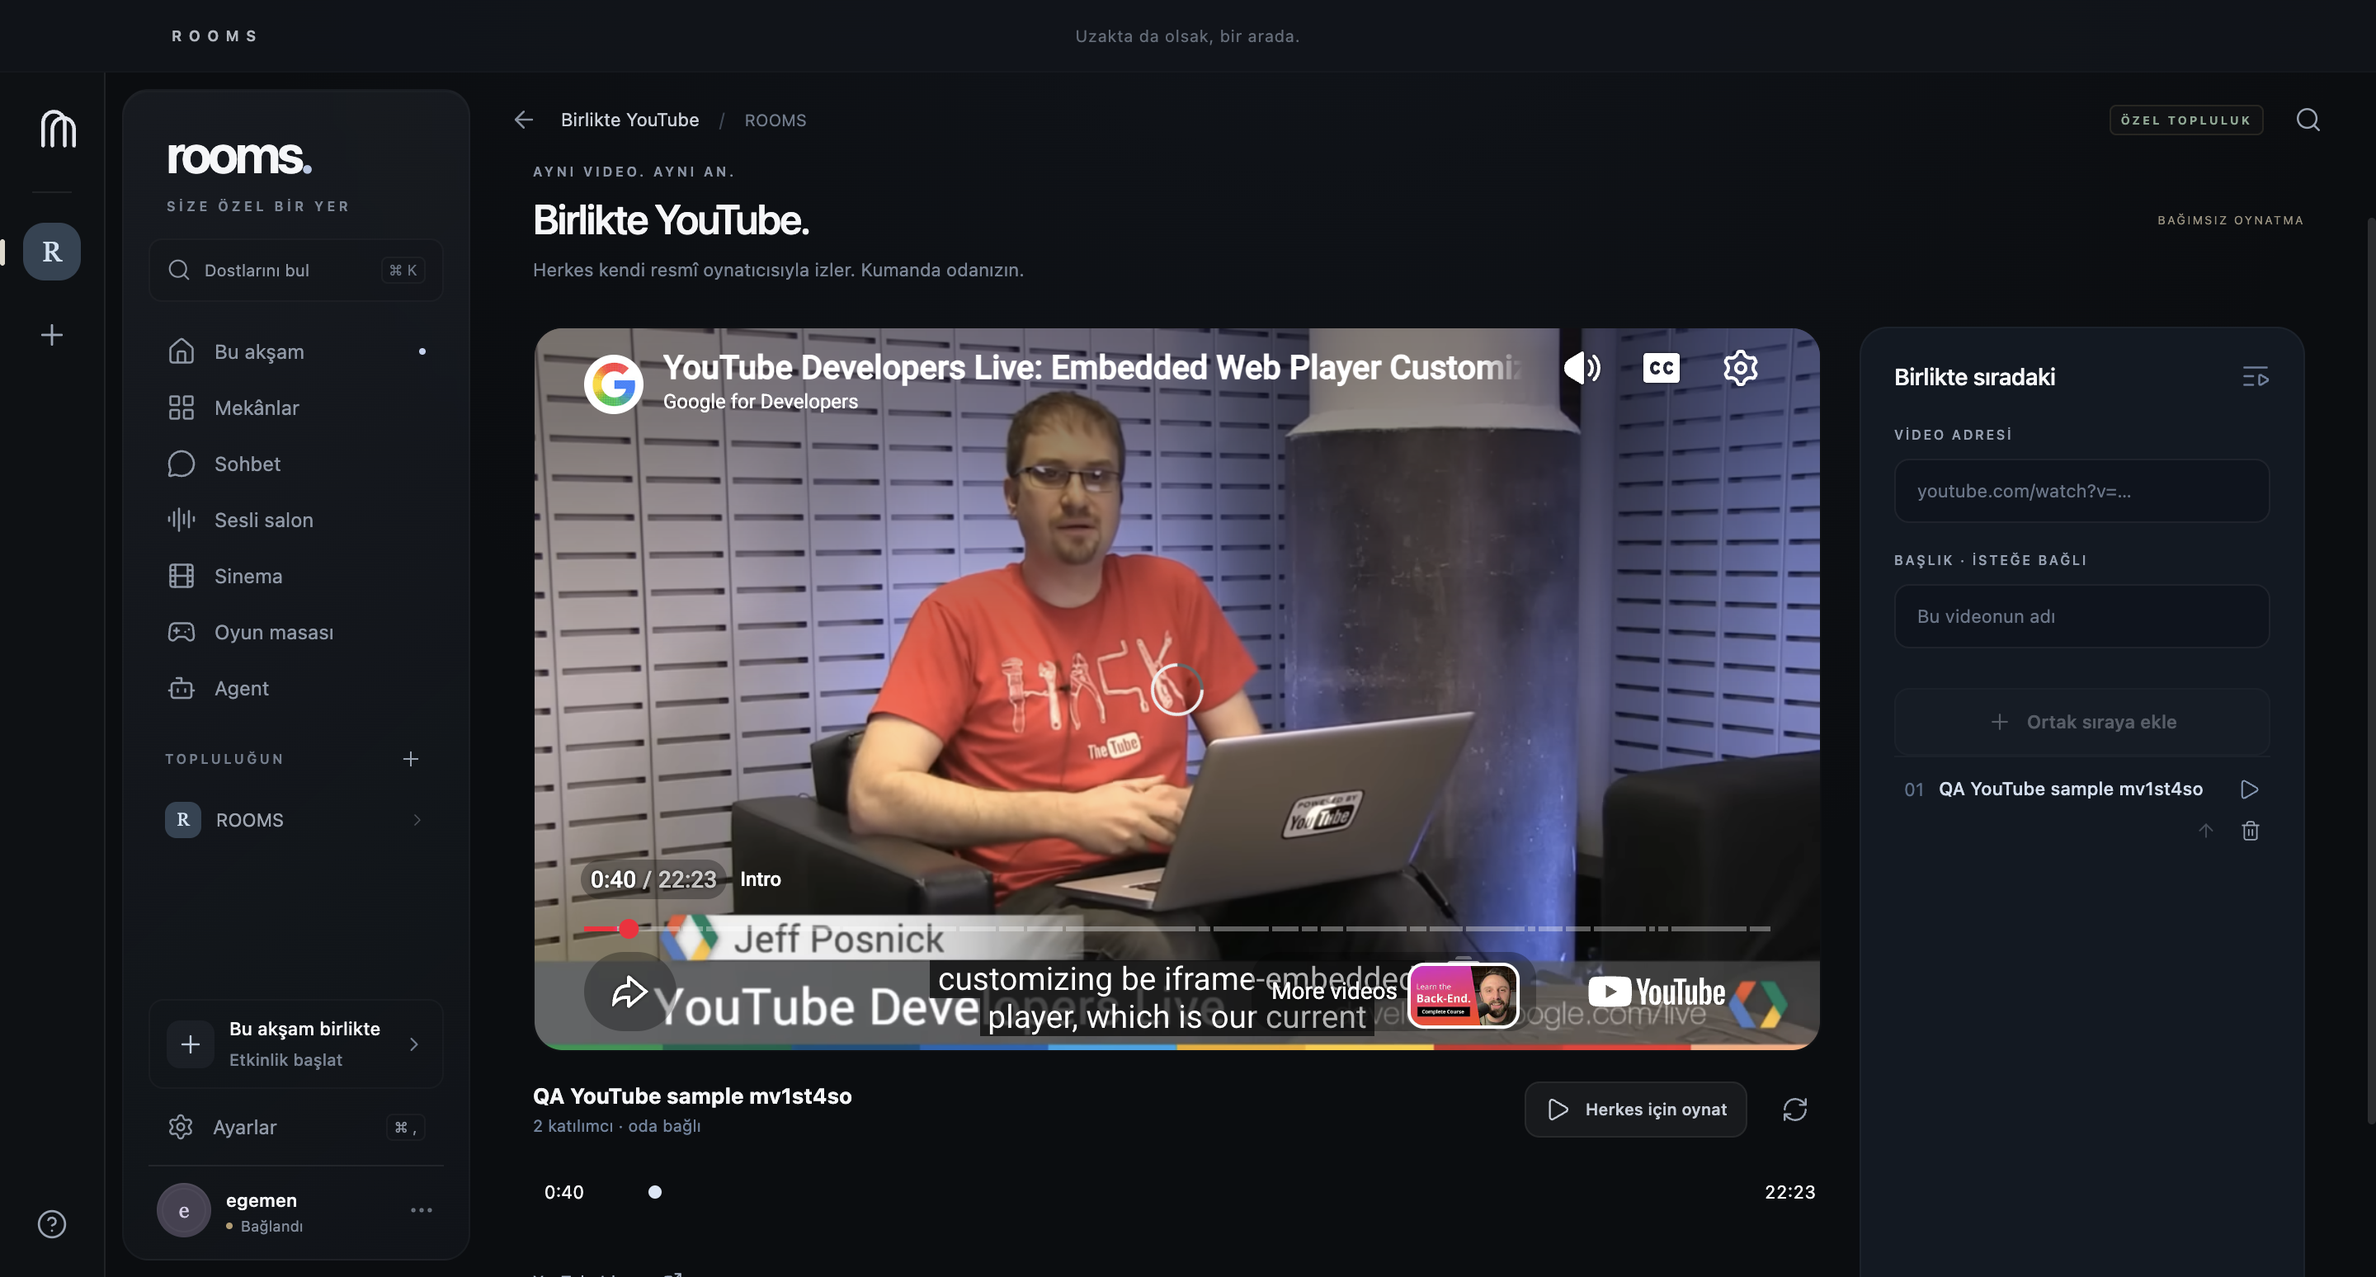
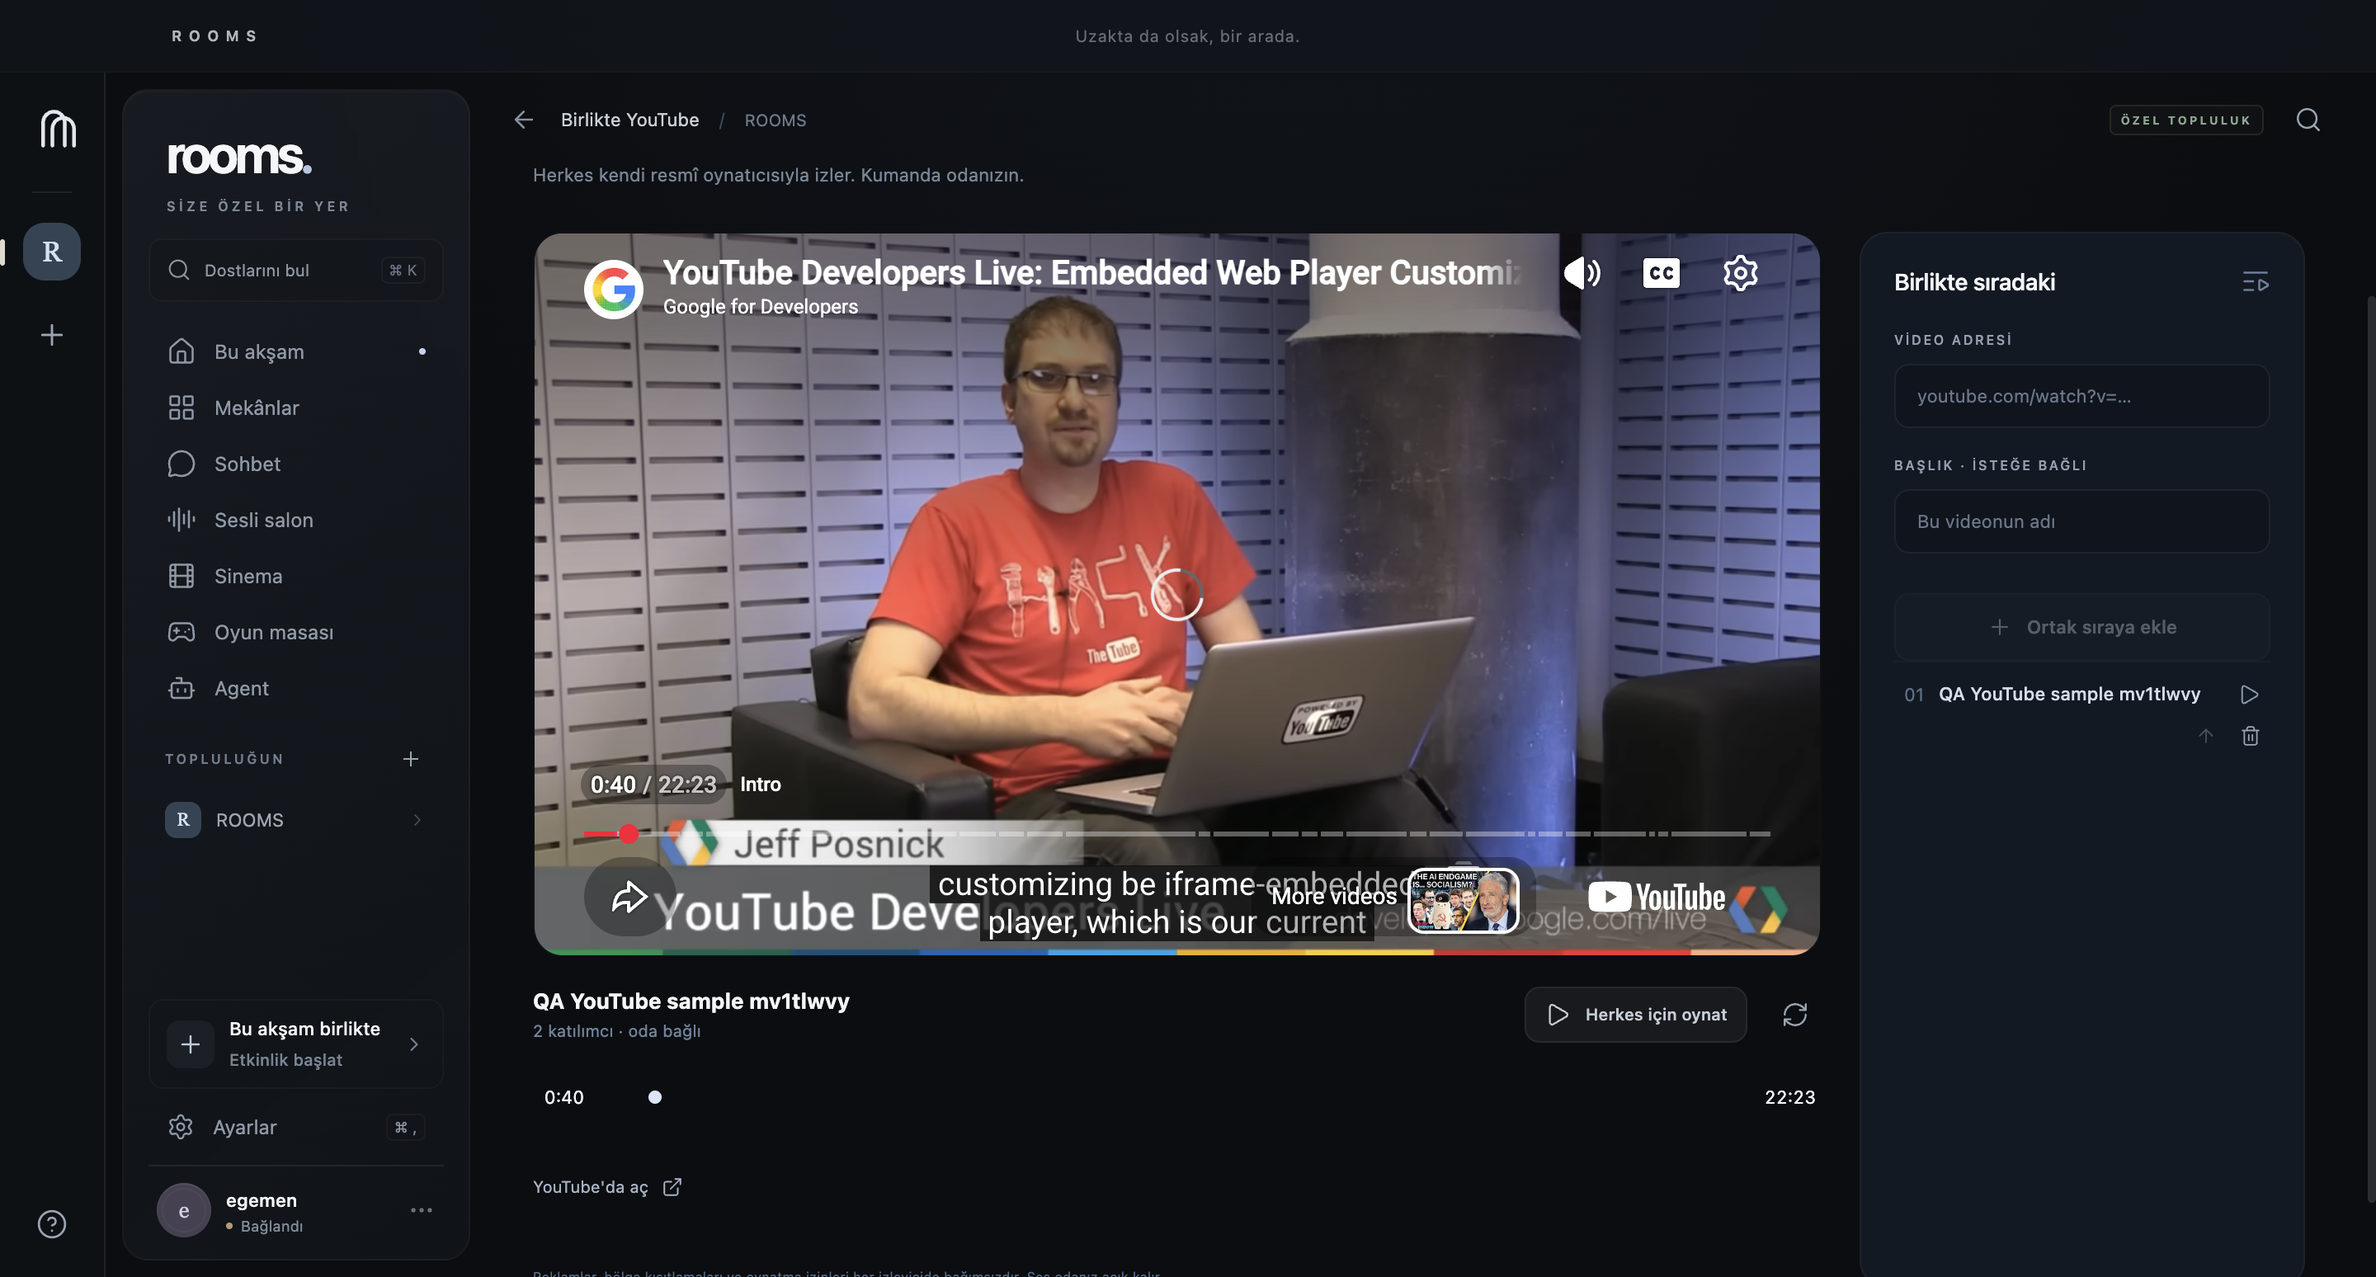
release: prepare verified Apple Silicon preview 0.1.4

diff --git a/docs/OVERNIGHT_DEPLOYMENT_PLAN.md b/docs/OVERNIGHT_DEPLOYMENT_PLAN.md
@@ -10,7 +10,7 @@ Finish the actual product, not a demonstration or a container installation. A fr
 
 - Dedicated core: 62.238.119.134, CX23 x86, 4 GB RAM, 40 GB disk, Helsinki, Ubuntu 26.04. The existing Hoppers machine is outside this deployment.
 - Existing owner SSH key works with the pinned host-key file `.local/ssh/known_hosts`. No password is stored in Git.
-- Docker 29.1.3, Compose 2.40.3, 1 GB persistent swap, bounded logs, private datastore ports, persistent volumes and firewall are configured. The deployment user exists but its SSH/privilege handoff remains unfinished.
+- Docker 29.1.3, Compose 2.40.3, 1 GB persistent swap, bounded logs, private datastore ports, persistent volumes and firewall are configured. Scoped maintenance SSH status/restart and general-root/Docker/other-project/configuration denials passed. Owner access remains intact.
 - Public origin: https://62.238.119.134, as requested. Caddy serves a publicly trusted short-lived IP certificate. Certificate renewal timer is installed; Certbot renewal simulation passed. Direct production Caddy reload also passed.
 - Unmodified upstream Stoat v0.15.5, access broker, PostgreSQL-backed Activities and independent LiveKit v1.9.12 are running. Actual image digests are pinned on the server. MongoDB 7.0.43 was selected after the upstream default MongoDB 8 refused this host kernel; no existing data was downgraded.
 - Private community, owner, isolated QA guest and outsider exist. Six expiring one-use signup invitations are saved privately. Do not publish account credentials or invitation codes.
@@ -18,9 +18,9 @@ Finish the actual product, not a demonstration or a container installation. A fr
 - Public production acceptance: 10/10 checks, including invite registration, public raw-registration denial, DM/friends, attachment delivery, authorized queue/poll/whiteboard/game state, deduplication, unsigned webhook denial and immediate membership revocation (`infra/production/ACCEPTANCE_RESULTS.json`).
 - Two Electron clients received synthetic audio/video through the public SFU using actual Stoat-authorized grants; mute, screen unpublish and signaling reconnect passed (`infra/production/MEDIA_RESULTS.json`). This does not certify physical microphone/camera/native screen-picker behavior.
 - Activity state survived a real writer-process stop/start (`infra/production/PERSISTENCE_RESULTS.json`). This does not certify full-machine recovery.
-- 96 tests across 21 files, typecheck, desktop build and service build passed after the production authorization adapter change.
-- An encrypted core backup was created, copied to the Mac and decrypted privately. Database dumps were copied to an isolated restore staging directory. Isolated offline Mongo/PostgreSQL database restores passed without modifying production. Daily backup timer is installed (04:30 UTC). Upload/certificate restore is not yet accepted.
-- Apple Silicon v0.1.1 DMG/ZIP was built and actual packaged launch/local playback passed; signing remains unavailable. Native production login, invitation signup, send/edit/delete, session restart/logout and screenshots now pass. Shared YouTube synchronization, full games acceptance, restrictive-network TURN/TLS, personal providers and separate Agent deployment are not complete.
+- 100 tests across 22 files, typecheck, desktop build and service build passed after the production authorization adapter change.
+- An encrypted core backup was created, copied to the Mac and decrypted privately. Database dumps were copied to an isolated restore staging directory. Isolated offline Mongo/PostgreSQL database restores passed without modifying production. Daily backup timer is installed (04:30 UTC). Actual isolated object restore with authenticated AES-GCM decode and TLS keypair matching passed; owned plaintext staging was removed.
+- Apple Silicon v0.1.3 DMG/ZIP was built and actual packaged launch/local playback passed; signing remains unavailable. Native production login, invitation signup, send/edit/delete, session restart/logout and screenshots now pass. Packaged shared YouTube synchronization and seven public game hands passed. Every native game control, restrictive-network TURN/TLS, personal providers and separate Agent deployment remain incomplete.
 
 ## Ordered execution checklist
 
@@ -38,18 +38,18 @@ The latest encrypted backup also passed isolated object read with authenticated 
 
 - [x] Run two actual Electron clients against the real origin: native sign-in form, community/chat navigation and UI message send/delivery passed with zero renderer errors.
 - [x] Finish native invitation signup, consumed-invite rejection, edit/delete, logout and restart restoration acceptance.
-- [ ] Finish native attachment picker and live presence acceptance.
+- [x] Actual native macOS attachment picker cancellation/upload/UI delivery/download byte matching passed. Three presence changes reached the other native client through observed gateway events; no renderer errors.
 - [x] Capture actual Electron screenshots and record version/platform. Keep fixture labels and honest disabled/error states.
 - [ ] Main agent directly implements all UI/interaction/Liquid Glass and engineering work, with running-app visual QA. Owner explicitly disabled Astra/high delegation on 2026-10-10; this supersedes the previous design policy.
 - [x] Verify actual native voice remains connected across Home/Chat/Cinema/Games navigation.
-- [ ] Finish presenter ownership, logout/revocation lifecycle acceptance.
+- [x] Two real development Electron clients passed native screen publication, precise second-presenter exclusion, presenter handoff, logout, active membership revocation (7.476 seconds in the passing run), denied fresh grant and released presenter lease. Owned QA membership was restored; no renderer errors.
 
 ### 3. Shared activities and games
 
 - [ ] Verify two-client queue/playback state, late join, host transfer, command replay/deduplication and recovery after service restart.
 - [x] Verify real official YouTube playback, pause and seek on the public HTTPS origin.
 - [x] Verify two actual packaged 0.1.3 desktop clients play the official YouTube sample, deliver shared pause and pointer/keyboard seek, join authoritatively and synchronize on late return (0.055 seconds observed drift), zero renderer errors.
-- [ ] Finish blocked-video/reconnect acceptance. Official player gesture, shared seek and late join passed; autoplay still depends on normal per-viewer permission.
+- [x] Owned-client iframe API interruption reached a bounded 25-second error; retry created a fresh player, preserved selection and recovered real official playback. Actual provider error 150 disabled controls with a precise explanation. Whole-service/network reconnect remains separate; autoplay depends on each viewer’s normal gesture.
 - [x] Public API/table-engine acceptance passed polls, whiteboard, seven full game hands, hidden hands, actual 30-second bot substitution, unchanged returning seats, host transfer and restored game history. Every game control has not been played manually in the desktop UI.
 - [ ] Verify Cinema local-source authorization and screen-sharing workflow; do not distribute provider tokens or personal media URLs through shared state.
 

diff --git a/docs/IMPLEMENTATION_PROGRESS.md b/docs/IMPLEMENTATION_PROGRESS.md
@@ -111,3 +111,15 @@ Hardware capture evidence explicitly applies to development Electron, with two c
 Actual two packaged Apple Silicon 0.1.3 clients passed official YouTube playback, shared pause, pointer seeks received by both players, keyboard seek, authoritative two-viewer membership and late rejoin with 0.055 seconds observed drift and zero renderer errors. The paused timeline displays authoritative room state; stale paused SDK positions do not overwrite accepted seeks. SDK duration is reported by the public player and timeline controls disable until ready.
 
 `pnpm build` (including typecheck), `pnpm test` (100 tests / 22 files), packaging and `node scripts/verify-package.mjs` passed. Packaging verification compares all 22 bundled files, then launches the actual package and checks bundled local playback. `ROOMS_QA_PACKAGED=1 node scripts/verify-shared-youtube.mjs` recorded the public UI checks and removed only its newly created queue item. Earlier harness assumptions about queue count after a new Activity and lagging SDK positions were corrected. Sixteen core services were running at final scoped maintenance status. Actual screenshots are preserved; camera, fresh TCC onboarding, physical second-client and signing gates remain open.
+
+## 2026-10-10 — real native recovery and lifecycle
+
+Friends now use observed gateway presence instead of waiting for the list refresh; disconnected presence is unknown. Actual two-client dnd/invisible/online event acceptance passed with no renderer errors. Actual macOS attachment picker cancellation preserved the draft, native selection/upload/UI send and second-client download matched owned bytes. The picker was operated through native UI, not stubbed.
+
+YouTube loads have a bounded 25-second state and fresh-player retry. Official errors 2/5/100/101/150/153 receive precise explanations; unusable playback controls disable. An actual packaged client recovered official playback after its iframe API request was deliberately interrupted; actual provider code 150 was rendered below the unobscured official player. Queue selection and independent voice are preserved.
+
+Media broker IPC exposes only allowlisted grant reasons and guards changed authentication sessions. Two real development Electron clients passed actual window publication, second-presenter exclusion, presenter handoff, logout, active revocation in 7.476 seconds, fresh-grant denial and presenter lease release. Owned QA membership was restored in cleanup. Earlier harness failures used the wrong Turkish cancel label and exposed an untranslated disconnect snapshot; both were corrected. No renderer errors. Same-Mac development capture does not certify fresh packaged TCC, camera or two physical computers.
+
+Visual inspection found disconnected voice still said ready/microphone available and an English empty-roster pseudo-element. The page now reports closed transmission and reconnection state, renders its empty text explicitly and permits reselecting a disconnected room. Final package acceptance follows below when complete.
+
+Unsigned Apple Silicon 0.1.4 built successfully. Final actual package verification compared all 22 current bundled files and checked packaged launch/local playback. Two actual packaged 0.1.4 clients passed official shared playback/pause, pointer/keyboard seek, authoritative membership and late return with 0.108 seconds observed drift, zero renderer errors. Owned queue data and profiles were cleaned. Earlier packaged blocked-player recovery also passed; final small voice-state text changes do not alter that player implementation. The latest complete suite passed 100 tests / 22 files. Existing Vite large-chunk/dynamic-import warnings remain; this is not a full-evening performance certification.

diff --git a/docs/CONTINUATION_CHECKPOINT.md b/docs/CONTINUATION_CHECKPOINT.md
@@ -21,6 +21,12 @@ Private credentials, QA identities and six delivery invitations are in gitignore
 
 Sanitized evidence lives under infra/production and infra/stoat. Actual screenshots are under docs/screenshots/production.
 
+## 2026-10-10 additional acceptance
+
+Actual macOS file picker cancellation preserved the draft; selected owned file upload, UI send, second-client receipt and downloaded byte matching passed. No native picker stubbing. Live dnd/invisible/online changes were observed as real gateway events in the other client (194–9882 ms including upstream request backpressure), zero renderer errors. Native two-client screen presenter exclusion/handoff, logout/session clearing, active membership revocation (7476 ms), denied fresh grant and freed presenter lease passed; owned QA membership was restored. Capture still uses development Electron identity on one Mac, not two physical computers.
+
+Actual packaged YouTube recovery passed an owned-client iframe API interruption, bounded 25-second loading failure, disabled controls, official external fallback, fresh nonce retry preserving selection, recovered official playback and provider error 150. No core/provider mutation. Screenshots were inspected. Disconnected voice now shows translated error and closed transmission instead of ready/microphone hints. Version 0.1.4 packaging/final checks are in progress; do not claim publication until checked.
+
 ## Current concrete action
 
 Unsigned Apple Silicon 0.1.3 DMG/ZIP were built. `node scripts/verify-package.mjs` passed matching all 22 bundled renderer/native/assets/notices files, actual packaged launch and local video advancement. `ROOMS_QA_PACKAGED=1 node scripts/verify-shared-youtube.mjs` passed two actual packaged clients against production: playback/pause, both-player pointer seek, keyboard seek, authoritative viewers and late rejoin with 0.055 seconds observed drift, zero renderer errors. The harness removed only its new queue item and logged out/deleted owned profiles. Earlier harness failures compared stale SDK positions and assumed queue count always increases; the new test tracks its unique item, including when starting a new Activity clears the previous queue.
@@ -29,7 +35,7 @@ Private v0.1.3 prerelease is published at https://github.com/egemenmermer/rooms/
 
 ## Remaining acceptance and required inputs
 
-Finish native attachment picker/live presence, presenter/logout/revocation lifecycle, blocked-video/reconnect UI, every game control and other 101 combinations where useful. Restrictive-network TURN/TLS, physical second-computer audible voice/camera/PTT/device loss/SFU reconnect, packaged permission onboarding, fresh install/update and sustained M1 performance remain unverified. Camera needs explicit OS permission.
+Native attachment picker/live presence, presenter/logout/revocation lifecycle and blocked-player recovery passed. Continue every game control, other 101 combinations and whole-network reconnect where useful. Restrictive-network TURN/TLS, physical second-computer audible voice/camera/PTT/device loss/SFU reconnect, packaged permission onboarding, fresh install/update and sustained M1 performance remain unverified. Camera needs explicit OS permission.
 
 Separate Agent host/access and individual model/bot/provider accounts were not supplied. Existing runtime/runbook/local tests do not prove deployed Agent or live providers. Do not cohost privileged workers on core or Hoppers. Apple Developer ID/notarization credentials are missing; releases are unsigned previews. Windows validation is deferred.
 

diff --git a/docs/FRIEND_PREVIEW_INSTALL.md b/docs/FRIEND_PREVIEW_INSTALL.md
@@ -1,8 +1,8 @@
 # Install the private Apple Silicon preview
 
-The latest tested preview is [v0.1.3](https://github.com/egemenmermer/rooms/releases/tag/v0.1.3). The private GitHub repository requires authorized repository access. Alternatively, the owner can supply the same DMG and checksum privately. This preview is unsigned and not notarized; it is not the finished signed release.
+The latest tested preview is [v0.1.4](https://github.com/egemenmermer/rooms/releases/tag/v0.1.4). The private GitHub repository requires authorized repository access. Alternatively, the owner can supply the same DMG and checksum privately. This preview is unsigned and not notarized; it is not the finished signed release.
 
-1. Download `ROOMS-0.1.3-arm64.dmg` and verify its SHA-256 against `docs/RELEASE_SHA256_0.1.3.txt`.
+1. Download `ROOMS-0.1.4-arm64.dmg` and verify its SHA-256 against `docs/RELEASE_SHA256_0.1.4.txt`.
 2. Open the DMG and drag ROOMS to Applications. Launch the installed copy.
 3. For a developer-verification block, follow Apple's per-app **System Settings → Privacy & Security → Open Anyway** flow only for the known ROOMS package. Do not disable Gatekeeper globally. [Apple's opening guidance](https://support.apple.com/en-us/102445).
 4. Open your privately supplied one-use `rooms://invite?...` link. Select **Yeni hesap** and enter your own username, email and password. Existing accounts use **Hesabım var**. Each delivery invitation expires and can be consumed only once.
